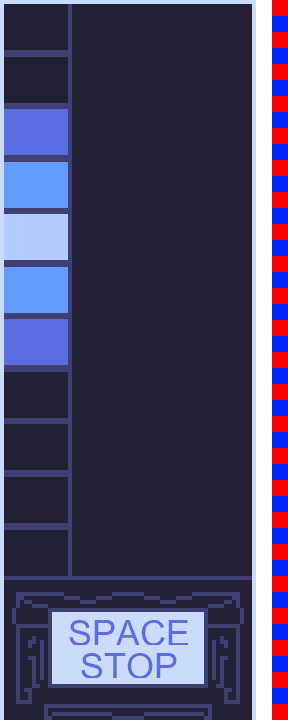
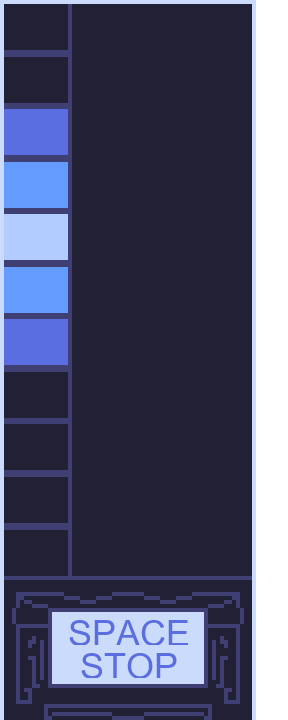
タイマー追加

Changed region(s): [[0.9375, 0.0, 1.0, 1.0]]

diff --git a/GameScene.cpp b/GameScene.cpp
@@ -304,20 +304,36 @@ void GameScene::Update() {
 			// ネクストステージ
 			if (stageEnemy1 == 1 && enemyHPPoint_ <= 0) {
 				
-				stageEnemy2 = 1;
-				playerHPPoint_ += 1;
-				enemyHPPoint_ = 5;
-				playerAttackTurn = 3;
-				stageEnemy1 = 0;
-				enemy_->Initialize(enemyModel2_, &camera_); 
+				delayTimerPoint = 1;
+				if (delayTimerPoint == 1) {
+					delayTimer--;
+				}
+				if (delayTimer <= 0) {
+					delayTimerPoint = 0;
+					delayTimer = 150;
+					stageEnemy2 = 1;
+					playerHPPoint_ += 1;
+					enemyHPPoint_ = 5;
+					playerAttackTurn = 3;
+					stageEnemy1 = 0;
+					enemy_->Initialize(enemyModel2_, &camera_);
+				}
 			}
 			// ネクストステージ
 			if (stageEnemy2 == 1 && enemyHPPoint_ <= 0) {
-				stageEnemy3 = 1;
-				playerHPPoint_ += 1;
-				enemyHPPoint_ = 5;
-				playerAttackTurn = 3;
-				stageEnemy2 = 0;
+				delayTimerPoint = 1;
+				if (delayTimerPoint == 1) {
+					delayTimer--;
+				}
+				if (delayTimer <= 0) {
+					delayTimerPoint = 0;
+					delayTimer = 150;
+					stageEnemy3 = 1;
+					playerHPPoint_ += 1;
+					enemyHPPoint_ = 5;
+					playerAttackTurn = 3;
+					stageEnemy2 = 0;
+				}
 				
 			}
 			// ゲームクリアへ

diff --git a/GameScene.h b/GameScene.h
@@ -167,6 +167,10 @@ private:
 	bool gameOver = false;
 	bool gameClear = false;
 
+	// 遅延タイマー
+	int delayTimerPoint = false;
+	int delayTimer = 150;
+
 	//==================================================
 	// ▼ カメラ関連
 	//==================================================
